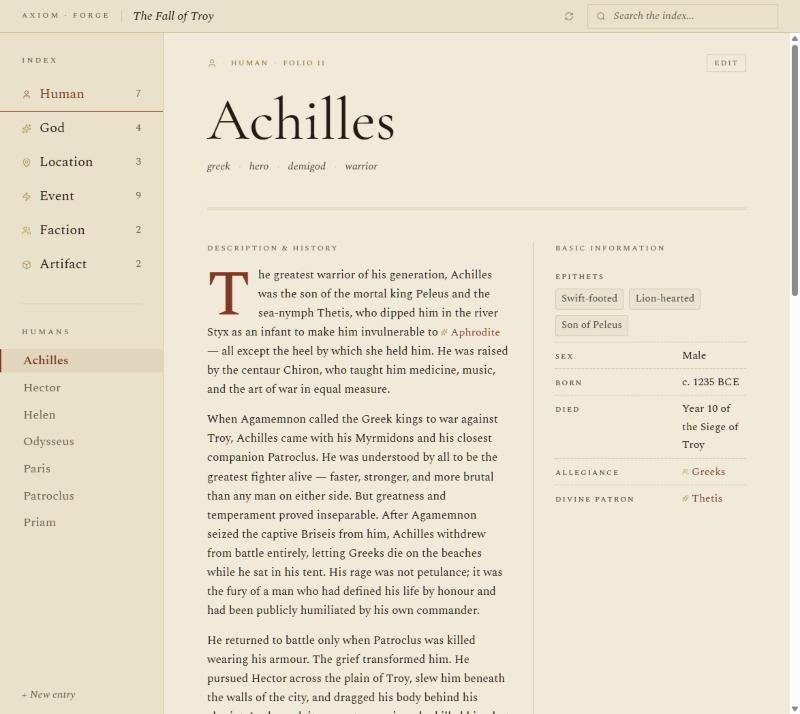
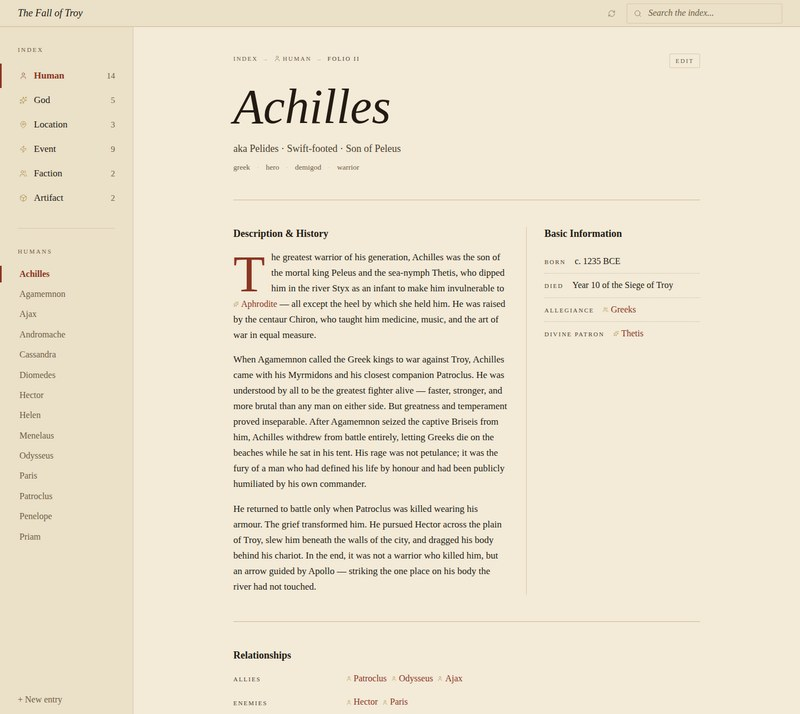
docs: refresh README screenshots and add folio edit view
Screenshots were taken against the current UI (35-entry Fall of Troy
sample), replacing the outdated design captures. Also fixes a typo
("ACHIVE" -> "ARCHIVE") on the landing page's volume label that showed
up while re-capturing.

Claude-Session: https://claude.ai/code/session_01ERoveotsQLoKSog3Eqbd22

diff --git a/packages/client/src/routes/Landing.tsx b/packages/client/src/routes/Landing.tsx
@@ -37,7 +37,7 @@ export function Landing(): JSX.Element {
 			<div className={styles.topCorners}>
 				<div className={styles.topLeft}>AXIOM · FORGE</div>
 				<div className={styles.topRight}>
-					{config.version ? `ACHIVE VOL. ${config.version.toUpperCase()} ` : ''}
+					{config.version ? `ARCHIVE VOL. ${config.version.toUpperCase()} ` : ''}
 				</div>
 			</div>
 			<div className={styles.hero}>

diff --git a/README.md b/README.md
@@ -9,9 +9,9 @@ A schema-driven, local-first encyclopedia and worldbuilding tool. Your world liv
 
 No database. No cloud. No lock-in. The Markdown files *are* the source of truth — open them in any editor, commit them to Git, sync them however you like.
 
-| Landing | Grand Index | Folio |
-|---|---|---|
-| ![Landing page](docs/screenshots/landing.jpg) | ![Grand Index](docs/screenshots/index.jpg) | ![Folio detail](docs/screenshots/folio.jpg) |
+| Landing | Grand Index | Folio | Folio Edit |
+|---|---|---|---|
+| ![Landing page](docs/screenshots/landing.jpg) | ![Grand Index](docs/screenshots/index.jpg) | ![Folio detail](docs/screenshots/folio.jpg) | ![Folio edit](docs/screenshots/folio-edit.jpg) |
 
 ## Why
 
